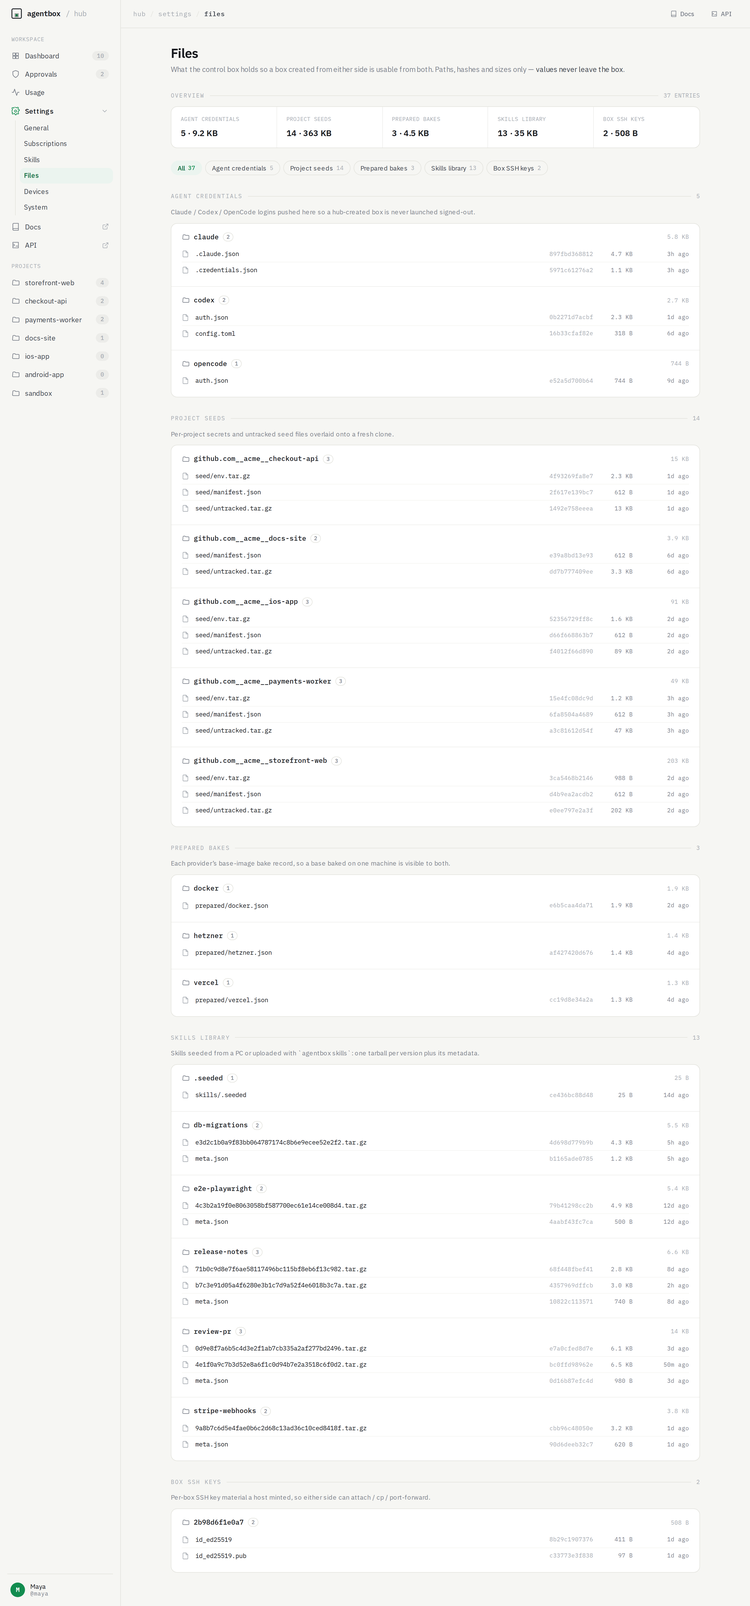
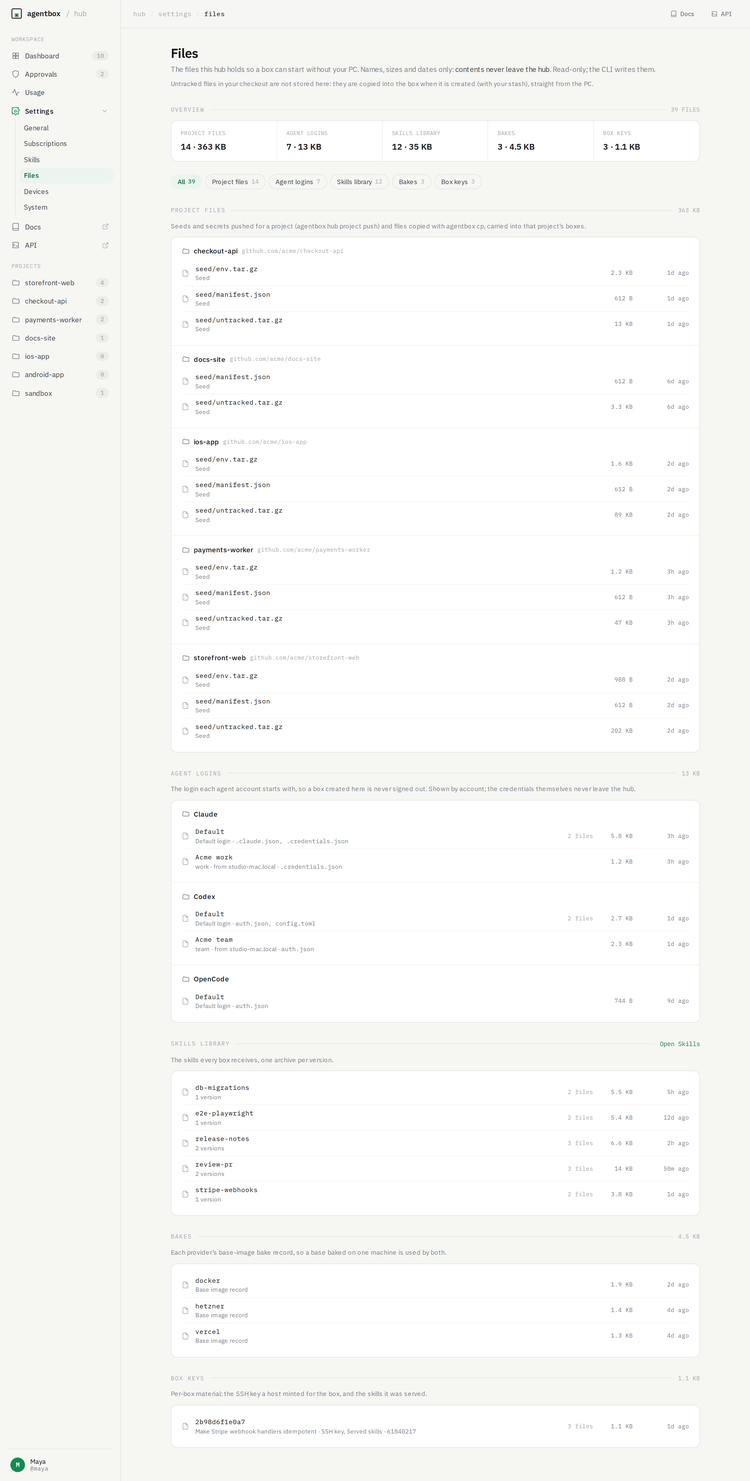
docs: hub settings Phase 4 done; Files docs, API and catalog shot

diff --git a/catalog/screens/index.html b/catalog/screens/index.html
@@ -126,7 +126,7 @@ dialog::backdrop { background: var(--shade); }
 <dialog id="dlg"></dialog>
 
 <script>
-const DATA = {"screens":[{"topic":"Web hub","setup":"fixture-hub","url":"/","id":"hub/boxes","title":"Hub dashboard: every box, grouped by project","what":"The boxes list with a pending approval banner on top: running, paused, creating, failed and stopped boxes on docker, vercel, hetzner and e2b.","social":{"title":"Every coding agent in its own box","crop":[0,0,2880,1800]},"files":[{"shoot":"pnpm shoot hub/boxes.png / --full","file":"hub/boxes.png","w":2880,"h":4122,"url":"../shots/hub/boxes.png","path":"catalog/shots/hub/boxes.png"}]},{"topic":"Web hub","setup":"fixture-hub","url":"/boxes/\u003cbox id>","id":"hub/box-detail","title":"Box detail","what":"One box: status, git, services, the skills it holds, access links and its approvals.","from":"hub/boxes","via":"Click a box row","social":{"crop":[0,0,2880,1800]},"files":[{"shoot":"pnpm shoot hub/box-detail.png /boxes/7f3a9c21b8d4 --full","file":"hub/box-detail.png","w":2880,"h":4252,"url":"../shots/hub/box-detail.png","path":"catalog/shots/hub/box-detail.png"}]},{"topic":"Web hub","setup":"fixture-hub","url":"/projects/\u003cproject id>","id":"hub/project","title":"Project page","what":"A project's boxes, its seed in custody and its service bot with backups.","from":"hub/boxes","via":"Click a project in the sidebar","social":{"crop":[0,0,2880,1800]},"files":[{"shoot":"pnpm shoot hub/project-detail.png /projects/fx-payments-worker --full","file":"hub/project-detail.png","w":2880,"h":1998,"url":"../shots/hub/project-detail.png","path":"catalog/shots/hub/project-detail.png"}]},{"topic":"Web hub","setup":"fixture-hub","url":"/projects/\u003cproject id>, then Create box","id":"hub/create-box","title":"Create a box","what":"The create modal over a project page: provider, agent, account and first prompt.","from":"hub/project","via":"Create box","notes":["The modal opens over the project page; the click is the first \"Create box\" button on the page."],"files":[{"shoot":"pnpm shoot hub/create-box.png /projects/fx-payments-worker --click text=Create\\ box","file":"hub/create-box.png","w":2880,"h":1800,"url":"../shots/hub/create-box.png","path":"catalog/shots/hub/create-box.png"}]},{"topic":"Web hub","setup":"fixture-hub","url":"/approvals","id":"hub/approvals","title":"Approvals","what":"Host actions boxes asked for, waiting on a yes: a shell command on the host and a git push.","from":"hub/boxes","via":"Approvals in the sidebar, or View all on the banner","files":[{"shoot":"pnpm shoot hub/approvals.png /approvals","file":"hub/approvals.png","w":2880,"h":1800,"url":"../shots/hub/approvals.png","path":"catalog/shots/hub/approvals.png"}]},{"topic":"Web hub","setup":"fixture-hub","url":"/usage","id":"hub/usage","title":"Usage: tokens by day, agent, account, box and model","what":"Seven days of token usage (demo numbers) by day, agent, account, box and model.","social":{"title":"Where the tokens went, per box and per account","crop":[0,0,2880,1800]},"files":[{"shoot":"pnpm shoot hub/usage.png /usage --full","file":"hub/usage.png","w":2880,"h":6642,"url":"../shots/hub/usage.png","path":"catalog/shots/hub/usage.png"}]},{"topic":"Web hub","setup":"fixture-hub","url":"/settings/files","id":"hub/files","title":"Files: what the hub holds for boxes","what":"Agent logins, project seeds, bake records, the skills library and a box SSH key, metadata only.","files":[{"shoot":"pnpm shoot hub/files.png /settings/files --full","file":"hub/files.png","w":2880,"h":6160,"url":"../shots/hub/files.png","path":"catalog/shots/hub/files.png"}]},{"topic":"Web hub","setup":"fixture-hub","url":"/settings/devices","id":"hub/devices","title":"Devices: the PCs enrolled on this hub","what":"Three enrolled machines, a revoked one, and an enrollment code waiting for approval.","files":[{"shoot":"pnpm shoot hub/devices.png /settings/devices --full","file":"hub/devices.png","w":2880,"h":1892,"url":"../shots/hub/devices.png","path":"catalog/shots/hub/devices.png"}]},{"topic":"Web hub","setup":"fixture-hub","url":"/settings","id":"hub/settings","title":"Settings: General (providers)","what":"Docker, Hetzner and Vercel ready; E2B, Daytona and DigitalOcean not set up.","files":[{"shoot":"pnpm shoot hub/settings.png /settings --full","file":"hub/settings.png","w":2880,"h":1918,"url":"../shots/hub/settings.png","path":"catalog/shots/hub/settings.png"}]},{"topic":"Web hub","setup":"fixture-hub","url":"/settings/system","id":"hub/system","title":"System: hub version, bakes and the box image","what":"The hub's own state: version, deploy record, which provider bases are baked, the docker image.","files":[{"shoot":"pnpm shoot hub/system.png /settings/system --full","file":"hub/system.png","w":2880,"h":3258,"url":"../shots/hub/system.png","path":"catalog/shots/hub/system.png"}]},{"topic":"Web hub: skills and accounts","setup":"fixture-hub","url":"/settings/skills","id":"hub/skills","title":"Skills library","what":"The hub-owned skills library: git, marketplace, linked-folder and uploaded skills, two updates waiting for approval.","social":{"title":"One skills library for every box"},"files":[{"shoot":"pnpm shoot hub/skills.png /settings/skills","file":"hub/skills.png","w":2880,"h":1800,"url":"../shots/hub/skills.png","path":"catalog/shots/hub/skills.png"}]},{"topic":"Web hub: skills and accounts","setup":"fixture-hub","url":"/settings/skills","id":"hub/skills-update","title":"Review a skill update","what":"The update dialog of a library skill: the file diff between the current and the pending version, and the secret scan.","from":"hub/skills","via":"Review update on a skill with an update waiting","notes":["Taken 1500px tall: at 900 the dialog squeezes each file panel."],"files":[{"shoot":"pnpm shoot hub/skills-update.png /settings/skills --size 1440x1500 --click text=Review\\ update","file":"hub/skills-update.png","w":2880,"h":3000,"url":"../shots/hub/skills-update.png","path":"catalog/shots/hub/skills-update.png"}]},{"topic":"Web hub: skills and accounts","setup":"fixture-hub","url":"/settings/subscriptions","id":"hub/subscriptions","title":"Subscriptions: LLM accounts","what":"Several logins, setup tokens and API keys per agent, with the boxes that use each one.","social":{"title":"Several Claude and Codex accounts, one per box"},"files":[{"shoot":"pnpm shoot hub/subscriptions.png /settings/subscriptions","file":"hub/subscriptions.png","w":2880,"h":1800,"url":"../shots/hub/subscriptions.png","path":"catalog/shots/hub/subscriptions.png"}]},{"topic":"macOS tray","setup":"fixture-tray","id":"tray/menu","title":"Tray menu","what":"Boxes grouped under their manager session and project, an approval with Approve/Deny, and the footer.","social":{"kind":"cutout","title":"Every box, one click from the menu bar"},"files":[{"shoot":"pnpm shoot:tray tray/menu.png --restart","file":"tray/menu.png","w":1322,"h":1884,"url":"../shots/tray/menu.png","path":"catalog/shots/tray/menu.png"}]},{"topic":"macOS tray","setup":"fixture-tray","id":"tray/skill-updates","title":"Tray: Skill updates submenu","what":"\"Skill updates (2)\": one row per waiting update (name → version), then Review in hub….","from":"tray/menu","via":"Skill updates (2)","social":{"kind":"cutout"},"files":[{"shoot":"pnpm shoot:tray tray/skill-updates.png --press agentbox.footer.skillUpdates","file":"tray/skill-updates.png","w":1286,"h":1884,"url":"../shots/tray/skill-updates.png","path":"catalog/shots/tray/skill-updates.png"}]},{"topic":"macOS tray","setup":"fixture-tray","id":"tray/skill-approve","title":"Tray: approve a skill update","what":"The confirmation before a version becomes current: running boxes sync it now, stopped ones on their next start.","from":"tray/skill-updates","via":"A row under Skill updates (skill → version)","notes":["--alert quits the fixture app after the shot: the alert is modal, and a relaunch resets the demo."],"social":{"kind":"cutout"},"files":[{"shoot":"pnpm shoot:tray tray/skill-approve-confirm.png --press agentbox.footer.skillUpdates --press agentbox.skillUpdates.review-pr --alert","file":"tray/skill-approve-confirm.png","w":520,"h":640,"url":"../shots/tray/skill-approve-confirm.png","path":"catalog/shots/tray/skill-approve-confirm.png"}]},{"topic":"macOS tray","setup":"fixture-tray","id":"tray/box-skills-behind","title":"Tray: a box that is behind on skills","what":"A box's submenu: a \"Skills behind: …\" line naming the skills it lacks, and Sync Skills.","from":"tray/menu","via":"Hover a box row","social":{"kind":"cutout"},"files":[{"shoot":"pnpm shoot:tray tray/box-skills-behind.png --press agentbox.box.queue-retries","file":"tray/box-skills-behind.png","w":1452,"h":1884,"url":"../shots/tray/box-skills-behind.png","path":"catalog/shots/tray/box-skills-behind.png"}]},{"topic":"macOS tray","setup":"fixture-tray","id":"tray/accounts","title":"Tray: Accounts submenu","what":"The read-only list of LLM accounts per agent, with kind, identity and how many boxes use each.","from":"tray/menu","via":"Accounts","social":{"kind":"cutout"},"files":[{"shoot":"pnpm shoot:tray tray/accounts.png --press agentbox.footer.accounts","file":"tray/accounts.png","w":1352,"h":1884,"url":"../shots/tray/accounts.png","path":"catalog/shots/tray/accounts.png"}]},{"topic":"macOS tray","setup":"fixture-tray","id":"tray/manager","title":"Manager window","what":"Tasks grouped by box with progress, the latest activity (a PR ready to merge with Approve), and the manager session pane.","from":"tray/menu","via":"Open Manager (⌘M)","social":{"kind":"cutout","title":"Plan the work, watch every box, approve the merge"},"files":[{"shoot":"pnpm shoot:tray tray/manager.png --manager fx-commerce","file":"tray/manager.png","w":2360,"h":1800,"url":"../shots/tray/manager.png","path":"catalog/shots/tray/manager.png"}]},{"topic":"CLI","setup":"fixture-cli","url":"agentbox install","id":"cli/install","title":"Setup wizard","what":"`agentbox install` (and the first command on a new machine): the system check, then the provider choice.","notes":["The \"system warn: optional sshfs, macfuse\" line is this Mac's real check result."],"social":{"kind":"cutout","title":"Set up in one command"},"files":[{"state":"pick a provider","shoot":"pnpm shoot:cli cli/install-provider.png --first-run --cols 122 --rows 22 --wait-for Which -- install","file":"cli/install-provider.png","w":2222,"h":934,"url":"../shots/cli/install-provider.png","path":"catalog/shots/cli/install-provider.png"},{"state":"Hetzner API token","shoot":"pnpm shoot:cli cli/install-hetzner.png --first-run --cols 110 --rows 34 --wait-for Which --send '\u003cDown>\u003cDown>' --send '\u003cEnter>' --settle 2500 -- install","file":"cli/install-hetzner.png","w":2028,"h":1246,"url":"../shots/cli/install-hetzner.png","path":"catalog/shots/cli/install-hetzner.png"}]},{"topic":"CLI","setup":"fixture-cli","url":"agentbox ls --global","id":"cli/ls","title":"agentbox ls","what":"Every box on the hub: state, agent activity (and its account), provider, URL and project.","social":{"kind":"cutout"},"files":[{"shoot":"pnpm shoot:cli cli/ls.png --cols 122 --rows 22 -- ls --global","file":"cli/ls.png","w":2222,"h":816,"url":"../shots/cli/ls.png","path":"catalog/shots/cli/ls.png"}]},{"topic":"CLI","setup":"fixture-cli","url":"agentbox --help","id":"cli/help","title":"agentbox --help","what":"The command list.","social":{"kind":"cutout"},"files":[{"shoot":"pnpm shoot:cli cli/help.png --cols 100 --rows 60 -- --help","file":"cli/help.png","w":1864,"h":2068,"url":"../shots/cli/help.png","path":"catalog/shots/cli/help.png"}]},{"id":"docs/dashboard","topic":"From the docs","title":"agentbox dashboard (docs capture)","what":"The terminal dashboard: the box list on the left, the selected box's live agent session on the right.","setup":"docs-site","files":[{"file":"docs:dashboard.png","w":2696,"h":1130,"url":"../../apps/web/public/screenshots/dashboard.png","path":"apps/web/public/screenshots/dashboard.png"}],"notes":["Needs live tmux sessions in real boxes, which the fixtures cannot provide, so it comes from the docs. Real boxes from the docs test environment (2026-06-02)."],"social":{"kind":"page"}},{"id":"docs/claude-tui","topic":"From the docs","title":"Claude Code in a box (docs capture)","what":"An attached Claude Code session running inside a docker box.","setup":"docs-site","files":[{"file":"docs:claude-tui.png","w":2336,"h":989,"url":"../../apps/web/public/screenshots/claude-tui.png","path":"apps/web/public/screenshots/claude-tui.png"}]},{"id":"docs/push-approval","topic":"From the docs","title":"Push approval in the terminal (docs capture)","what":"The approval band a box raises when its agent runs gh pr create.","setup":"docs-site","files":[{"file":"docs:push-approval.png","w":2416,"h":1120,"url":"../../apps/web/public/screenshots/push-approval.png","path":"apps/web/public/screenshots/push-approval.png"}]},{"id":"docs/novnc-desktop","topic":"From the docs","title":"A box's desktop over noVNC (docs capture)","what":"The in-box browser and desktop.","setup":"docs-site","files":[{"file":"docs:novnc-desktop.png","w":1140,"h":978,"url":"../../apps/web/public/screenshots/novnc-desktop.png","path":"apps/web/public/screenshots/novnc-desktop.png"}],"check":"apps/web/images.md marks this one stale: it predates the window manager and the dock."},{"id":"docs/herdr","topic":"From the docs","title":"Herdr: a box blocked on an approval (docs capture)","what":"Claude in a box inside Herdr, waiting on a gh pr create approval, with the agents sidebar.","setup":"docs-site","files":[{"file":"docs:herdr-permission-prompt.png","w":2784,"h":1616,"url":"../../apps/web/public/screenshots/herdr-permission-prompt.png","path":"apps/web/public/screenshots/herdr-permission-prompt.png"}]},{"id":"docs/cmux","topic":"From the docs","title":"cmux: box status in the sidebar (docs capture)","what":"Box state as colour and description in the cmux sidebar.","setup":"docs-site","files":[{"file":"docs:cmux-sidebar-state.png","w":1100,"h":640,"url":"../../apps/web/public/screenshots/cmux-sidebar-state.png","path":"apps/web/public/screenshots/cmux-sidebar-state.png"}]}],"setups":{"fixture-hub":{"title":"Fixture hub: the real hub UI on the Acme demo data","what":"apps/hub's own production build, served by scripts/fixture-hub.mjs on 127.0.0.1:3126 with a fixture backend (fixtures/acme.mjs) and every /api/v1 route answered from fixtures/api.mjs. No relay, no boxes, no sign-in; HOME is .cache/home.","commands":["pnpm --filter @agentbox/hub build   # only when apps/hub changed since the last build (from the repo root)","pnpm fixture-hub                    # http://127.0.0.1:3126, leave it running","pnpm shoot \u003cfile> \u003cpath>            # in another terminal"],"notes":["A route a page asks for that has no fixture prints \"unhandled GET ...\" in the fixture hub's log, and shoot warns \"answered 404\". Add it to fixtures/api.mjs.","The hub reads the clock in the browser: shoot pins it to NOW in fixtures/acme.mjs, so \"3m ago\" is the same on every run."]},"fixture-tray":{"title":"Tray app in fixture mode (AgentBoxE2E.app --fixtures)","what":"A second tray instance from ../agentbox-tray (own bundle id and process name, so the owner's real tray is never touched), launched with --fixtures: the tray's in-memory FixtureBoxSource, the same Acme story as the hub fixtures, no hub, no shell-outs. Driven through Accessibility by e2e/tray-driver.","commands":["cd ../../agentbox-tray && make e2e-app            # builds AgentBoxE2E.app (after a tray change)","cd ../e2e/tray-driver && swift build -c release   # the AX driver, once","pnpm shoot:tray \u003cfile> [--press \u003cax id>]...       # launches the app itself when it is not running"],"notes":["Opening a menu takes the screen for a moment: shoot:tray waits until the Mac has had 3s without input. Don't use the Mac while it runs.","Captures are `screencapture -l \u003cwindow id>` of the app's own windows, never a screen region, so nothing else on the screen gets in.","The terminal that runs it needs Screen Recording and Accessibility permission (System Settings → Privacy & Security).","The tray's demo data lives in the tray repo (Sources/AgentBox/Source/FixtureBoxSource.swift), not here. Keep fixtures/acme.mjs in step with it."]},"fixture-cli":{"title":"CLI in a PTY, HOME pointed at the fixture hub","what":"apps/cli/dist/index.js run in the repo's PTY harness (`pnpm drive`) with HOME=.cache/cli-home, whose config sets relay.port to 3126: every hub-backed command reads the fixture hub. The rendered screen, colours included, is drawn into a terminal window by scripts/shoot-cli.mjs.","commands":["pnpm --filter agentbox build   # from the repo root, when the CLI changed","pnpm fixture-hub               # leave it running","pnpm shoot:cli \u003cfile> [options] -- \u003cagentbox args>"],"notes":["The prompt line (\"~/Projects/commerce ❯ agentbox ...\") is drawn, not typed.","Checks that read the real machine (the system compatibility step of the wizard) show this Mac's result."]},"docs-site":{"title":"Taken for the public docs (apps/web)","what":"Real screenshots of real boxes, taken for agent-box.sh/docs and kept in apps/web/public/screenshots. How each was taken, and which are stale, is in apps/web/images.md.","commands":["# see apps/web/images.md, section 1 (the test environment) and its status table"]}},"topics":["Web hub","Web hub: skills and accounts","macOS tray","CLI","From the docs"]};
+const DATA = {"screens":[{"topic":"Web hub","setup":"fixture-hub","url":"/","id":"hub/boxes","title":"Hub dashboard: every box, grouped by project","what":"The boxes list with a pending approval banner on top: running, paused, creating, failed and stopped boxes on docker, vercel, hetzner and e2b.","social":{"title":"Every coding agent in its own box","crop":[0,0,2880,1800]},"files":[{"shoot":"pnpm shoot hub/boxes.png / --full","file":"hub/boxes.png","w":2880,"h":4122,"url":"../shots/hub/boxes.png","path":"catalog/shots/hub/boxes.png"}]},{"topic":"Web hub","setup":"fixture-hub","url":"/boxes/\u003cbox id>","id":"hub/box-detail","title":"Box detail","what":"One box: status, git, services, the skills it holds, access links and its approvals.","from":"hub/boxes","via":"Click a box row","social":{"crop":[0,0,2880,1800]},"files":[{"shoot":"pnpm shoot hub/box-detail.png /boxes/7f3a9c21b8d4 --full","file":"hub/box-detail.png","w":2880,"h":4252,"url":"../shots/hub/box-detail.png","path":"catalog/shots/hub/box-detail.png"}]},{"topic":"Web hub","setup":"fixture-hub","url":"/projects/\u003cproject id>","id":"hub/project","title":"Project page","what":"A project's boxes, its seed in custody and its service bot with backups.","from":"hub/boxes","via":"Click a project in the sidebar","social":{"crop":[0,0,2880,1800]},"files":[{"shoot":"pnpm shoot hub/project-detail.png /projects/fx-payments-worker --full","file":"hub/project-detail.png","w":2880,"h":1998,"url":"../shots/hub/project-detail.png","path":"catalog/shots/hub/project-detail.png"}]},{"topic":"Web hub","setup":"fixture-hub","url":"/projects/\u003cproject id>, then Create box","id":"hub/create-box","title":"Create a box","what":"The create modal over a project page: provider, agent, account and first prompt.","from":"hub/project","via":"Create box","notes":["The modal opens over the project page; the click is the first \"Create box\" button on the page."],"files":[{"shoot":"pnpm shoot hub/create-box.png /projects/fx-payments-worker --click text=Create\\ box","file":"hub/create-box.png","w":2880,"h":1800,"url":"../shots/hub/create-box.png","path":"catalog/shots/hub/create-box.png"}]},{"topic":"Web hub","setup":"fixture-hub","url":"/approvals","id":"hub/approvals","title":"Approvals","what":"Host actions boxes asked for, waiting on a yes: a shell command on the host and a git push.","from":"hub/boxes","via":"Approvals in the sidebar, or View all on the banner","files":[{"shoot":"pnpm shoot hub/approvals.png /approvals","file":"hub/approvals.png","w":2880,"h":1800,"url":"../shots/hub/approvals.png","path":"catalog/shots/hub/approvals.png"}]},{"topic":"Web hub","setup":"fixture-hub","url":"/usage","id":"hub/usage","title":"Usage: tokens by day, agent, account, box and model","what":"Seven days of token usage (demo numbers) by day, agent, account, box and model.","social":{"title":"Where the tokens went, per box and per account","crop":[0,0,2880,1800]},"files":[{"shoot":"pnpm shoot hub/usage.png /usage --full","file":"hub/usage.png","w":2880,"h":6642,"url":"../shots/hub/usage.png","path":"catalog/shots/hub/usage.png"}]},{"topic":"Web hub","setup":"fixture-hub","url":"/settings/files","id":"hub/files","title":"Files: what the hub holds for boxes","what":"Project files per project, agent logins per account, the skills library, bakes and box keys, with size and last update; metadata only.","files":[{"shoot":"pnpm shoot hub/files.png /settings/files --full","file":"hub/files.png","w":2880,"h":5680,"url":"../shots/hub/files.png","path":"catalog/shots/hub/files.png"}]},{"topic":"Web hub","setup":"fixture-hub","url":"/settings/devices","id":"hub/devices","title":"Devices: the PCs enrolled on this hub","what":"Three enrolled machines, a revoked one, and an enrollment code waiting for approval.","files":[{"shoot":"pnpm shoot hub/devices.png /settings/devices --full","file":"hub/devices.png","w":2880,"h":1892,"url":"../shots/hub/devices.png","path":"catalog/shots/hub/devices.png"}]},{"topic":"Web hub","setup":"fixture-hub","url":"/settings","id":"hub/settings","title":"Settings: General (providers)","what":"Docker, Hetzner and Vercel ready; E2B, Daytona and DigitalOcean not set up.","files":[{"shoot":"pnpm shoot hub/settings.png /settings --full","file":"hub/settings.png","w":2880,"h":1918,"url":"../shots/hub/settings.png","path":"catalog/shots/hub/settings.png"}]},{"topic":"Web hub","setup":"fixture-hub","url":"/settings/system","id":"hub/system","title":"System: hub version, bakes and the box image","what":"The hub's own state: version, deploy record, which provider bases are baked, the docker image.","files":[{"shoot":"pnpm shoot hub/system.png /settings/system --full","file":"hub/system.png","w":2880,"h":3258,"url":"../shots/hub/system.png","path":"catalog/shots/hub/system.png"}]},{"topic":"Web hub: skills and accounts","setup":"fixture-hub","url":"/settings/skills","id":"hub/skills","title":"Skills library","what":"The hub-owned skills library: git, marketplace, linked-folder and uploaded skills, two updates waiting for approval.","social":{"title":"One skills library for every box"},"files":[{"shoot":"pnpm shoot hub/skills.png /settings/skills","file":"hub/skills.png","w":2880,"h":1800,"url":"../shots/hub/skills.png","path":"catalog/shots/hub/skills.png"}]},{"topic":"Web hub: skills and accounts","setup":"fixture-hub","url":"/settings/skills","id":"hub/skills-update","title":"Review a skill update","what":"The update dialog of a library skill: the file diff between the current and the pending version, and the secret scan.","from":"hub/skills","via":"Review update on a skill with an update waiting","notes":["Taken 1500px tall: at 900 the dialog squeezes each file panel."],"files":[{"shoot":"pnpm shoot hub/skills-update.png /settings/skills --size 1440x1500 --click text=Review\\ update","file":"hub/skills-update.png","w":2880,"h":3000,"url":"../shots/hub/skills-update.png","path":"catalog/shots/hub/skills-update.png"}]},{"topic":"Web hub: skills and accounts","setup":"fixture-hub","url":"/settings/subscriptions","id":"hub/subscriptions","title":"Subscriptions: LLM accounts","what":"Several logins, setup tokens and API keys per agent, with the boxes that use each one.","social":{"title":"Several Claude and Codex accounts, one per box"},"files":[{"shoot":"pnpm shoot hub/subscriptions.png /settings/subscriptions","file":"hub/subscriptions.png","w":2880,"h":1800,"url":"../shots/hub/subscriptions.png","path":"catalog/shots/hub/subscriptions.png"}]},{"topic":"macOS tray","setup":"fixture-tray","id":"tray/menu","title":"Tray menu","what":"Boxes grouped under their manager session and project, an approval with Approve/Deny, and the footer.","social":{"kind":"cutout","title":"Every box, one click from the menu bar"},"files":[{"shoot":"pnpm shoot:tray tray/menu.png --restart","file":"tray/menu.png","w":1322,"h":1884,"url":"../shots/tray/menu.png","path":"catalog/shots/tray/menu.png"}]},{"topic":"macOS tray","setup":"fixture-tray","id":"tray/skill-updates","title":"Tray: Skill updates submenu","what":"\"Skill updates (2)\": one row per waiting update (name → version), then Review in hub….","from":"tray/menu","via":"Skill updates (2)","social":{"kind":"cutout"},"files":[{"shoot":"pnpm shoot:tray tray/skill-updates.png --press agentbox.footer.skillUpdates","file":"tray/skill-updates.png","w":1286,"h":1884,"url":"../shots/tray/skill-updates.png","path":"catalog/shots/tray/skill-updates.png"}]},{"topic":"macOS tray","setup":"fixture-tray","id":"tray/skill-approve","title":"Tray: approve a skill update","what":"The confirmation before a version becomes current: running boxes sync it now, stopped ones on their next start.","from":"tray/skill-updates","via":"A row under Skill updates (skill → version)","notes":["--alert quits the fixture app after the shot: the alert is modal, and a relaunch resets the demo."],"social":{"kind":"cutout"},"files":[{"shoot":"pnpm shoot:tray tray/skill-approve-confirm.png --press agentbox.footer.skillUpdates --press agentbox.skillUpdates.review-pr --alert","file":"tray/skill-approve-confirm.png","w":520,"h":640,"url":"../shots/tray/skill-approve-confirm.png","path":"catalog/shots/tray/skill-approve-confirm.png"}]},{"topic":"macOS tray","setup":"fixture-tray","id":"tray/box-skills-behind","title":"Tray: a box that is behind on skills","what":"A box's submenu: a \"Skills behind: …\" line naming the skills it lacks, and Sync Skills.","from":"tray/menu","via":"Hover a box row","social":{"kind":"cutout"},"files":[{"shoot":"pnpm shoot:tray tray/box-skills-behind.png --press agentbox.box.queue-retries","file":"tray/box-skills-behind.png","w":1452,"h":1884,"url":"../shots/tray/box-skills-behind.png","path":"catalog/shots/tray/box-skills-behind.png"}]},{"topic":"macOS tray","setup":"fixture-tray","id":"tray/accounts","title":"Tray: Accounts submenu","what":"The read-only list of LLM accounts per agent, with kind, identity and how many boxes use each.","from":"tray/menu","via":"Accounts","social":{"kind":"cutout"},"files":[{"shoot":"pnpm shoot:tray tray/accounts.png --press agentbox.footer.accounts","file":"tray/accounts.png","w":1352,"h":1884,"url":"../shots/tray/accounts.png","path":"catalog/shots/tray/accounts.png"}]},{"topic":"macOS tray","setup":"fixture-tray","id":"tray/manager","title":"Manager window","what":"Tasks grouped by box with progress, the latest activity (a PR ready to merge with Approve), and the manager session pane.","from":"tray/menu","via":"Open Manager (⌘M)","social":{"kind":"cutout","title":"Plan the work, watch every box, approve the merge"},"files":[{"shoot":"pnpm shoot:tray tray/manager.png --manager fx-commerce","file":"tray/manager.png","w":2360,"h":1800,"url":"../shots/tray/manager.png","path":"catalog/shots/tray/manager.png"}]},{"topic":"CLI","setup":"fixture-cli","url":"agentbox install","id":"cli/install","title":"Setup wizard","what":"`agentbox install` (and the first command on a new machine): the system check, then the provider choice.","notes":["The \"system warn: optional sshfs, macfuse\" line is this Mac's real check result."],"social":{"kind":"cutout","title":"Set up in one command"},"files":[{"state":"pick a provider","shoot":"pnpm shoot:cli cli/install-provider.png --first-run --cols 122 --rows 22 --wait-for Which -- install","file":"cli/install-provider.png","w":2222,"h":934,"url":"../shots/cli/install-provider.png","path":"catalog/shots/cli/install-provider.png"},{"state":"Hetzner API token","shoot":"pnpm shoot:cli cli/install-hetzner.png --first-run --cols 110 --rows 34 --wait-for Which --send '\u003cDown>\u003cDown>' --send '\u003cEnter>' --settle 2500 -- install","file":"cli/install-hetzner.png","w":2028,"h":1246,"url":"../shots/cli/install-hetzner.png","path":"catalog/shots/cli/install-hetzner.png"}]},{"topic":"CLI","setup":"fixture-cli","url":"agentbox ls --global","id":"cli/ls","title":"agentbox ls","what":"Every box on the hub: state, agent activity (and its account), provider, URL and project.","social":{"kind":"cutout"},"files":[{"shoot":"pnpm shoot:cli cli/ls.png --cols 122 --rows 22 -- ls --global","file":"cli/ls.png","w":2222,"h":816,"url":"../shots/cli/ls.png","path":"catalog/shots/cli/ls.png"}]},{"topic":"CLI","setup":"fixture-cli","url":"agentbox --help","id":"cli/help","title":"agentbox --help","what":"The command list.","social":{"kind":"cutout"},"files":[{"shoot":"pnpm shoot:cli cli/help.png --cols 100 --rows 60 -- --help","file":"cli/help.png","w":1864,"h":2068,"url":"../shots/cli/help.png","path":"catalog/shots/cli/help.png"}]},{"id":"docs/dashboard","topic":"From the docs","title":"agentbox dashboard (docs capture)","what":"The terminal dashboard: the box list on the left, the selected box's live agent session on the right.","setup":"docs-site","files":[{"file":"docs:dashboard.png","w":2696,"h":1130,"url":"../../apps/web/public/screenshots/dashboard.png","path":"apps/web/public/screenshots/dashboard.png"}],"notes":["Needs live tmux sessions in real boxes, which the fixtures cannot provide, so it comes from the docs. Real boxes from the docs test environment (2026-06-02)."],"social":{"kind":"page"}},{"id":"docs/claude-tui","topic":"From the docs","title":"Claude Code in a box (docs capture)","what":"An attached Claude Code session running inside a docker box.","setup":"docs-site","files":[{"file":"docs:claude-tui.png","w":2336,"h":989,"url":"../../apps/web/public/screenshots/claude-tui.png","path":"apps/web/public/screenshots/claude-tui.png"}]},{"id":"docs/push-approval","topic":"From the docs","title":"Push approval in the terminal (docs capture)","what":"The approval band a box raises when its agent runs gh pr create.","setup":"docs-site","files":[{"file":"docs:push-approval.png","w":2416,"h":1120,"url":"../../apps/web/public/screenshots/push-approval.png","path":"apps/web/public/screenshots/push-approval.png"}]},{"id":"docs/novnc-desktop","topic":"From the docs","title":"A box's desktop over noVNC (docs capture)","what":"The in-box browser and desktop.","setup":"docs-site","files":[{"file":"docs:novnc-desktop.png","w":1140,"h":978,"url":"../../apps/web/public/screenshots/novnc-desktop.png","path":"apps/web/public/screenshots/novnc-desktop.png"}],"check":"apps/web/images.md marks this one stale: it predates the window manager and the dock."},{"id":"docs/herdr","topic":"From the docs","title":"Herdr: a box blocked on an approval (docs capture)","what":"Claude in a box inside Herdr, waiting on a gh pr create approval, with the agents sidebar.","setup":"docs-site","files":[{"file":"docs:herdr-permission-prompt.png","w":2784,"h":1616,"url":"../../apps/web/public/screenshots/herdr-permission-prompt.png","path":"apps/web/public/screenshots/herdr-permission-prompt.png"}]},{"id":"docs/cmux","topic":"From the docs","title":"cmux: box status in the sidebar (docs capture)","what":"Box state as colour and description in the cmux sidebar.","setup":"docs-site","files":[{"file":"docs:cmux-sidebar-state.png","w":1100,"h":640,"url":"../../apps/web/public/screenshots/cmux-sidebar-state.png","path":"apps/web/public/screenshots/cmux-sidebar-state.png"}]}],"setups":{"fixture-hub":{"title":"Fixture hub: the real hub UI on the Acme demo data","what":"apps/hub's own production build, served by scripts/fixture-hub.mjs on 127.0.0.1:3126 with a fixture backend (fixtures/acme.mjs) and every /api/v1 route answered from fixtures/api.mjs. No relay, no boxes, no sign-in; HOME is .cache/home.","commands":["pnpm --filter @agentbox/hub build   # only when apps/hub changed since the last build (from the repo root)","pnpm fixture-hub                    # http://127.0.0.1:3126, leave it running","pnpm shoot \u003cfile> \u003cpath>            # in another terminal"],"notes":["A route a page asks for that has no fixture prints \"unhandled GET ...\" in the fixture hub's log, and shoot warns \"answered 404\". Add it to fixtures/api.mjs.","The hub reads the clock in the browser: shoot pins it to NOW in fixtures/acme.mjs, so \"3m ago\" is the same on every run."]},"fixture-tray":{"title":"Tray app in fixture mode (AgentBoxE2E.app --fixtures)","what":"A second tray instance from ../agentbox-tray (own bundle id and process name, so the owner's real tray is never touched), launched with --fixtures: the tray's in-memory FixtureBoxSource, the same Acme story as the hub fixtures, no hub, no shell-outs. Driven through Accessibility by e2e/tray-driver.","commands":["cd ../../agentbox-tray && make e2e-app            # builds AgentBoxE2E.app (after a tray change)","cd ../e2e/tray-driver && swift build -c release   # the AX driver, once","pnpm shoot:tray \u003cfile> [--press \u003cax id>]...       # launches the app itself when it is not running"],"notes":["Opening a menu takes the screen for a moment: shoot:tray waits until the Mac has had 3s without input. Don't use the Mac while it runs.","Captures are `screencapture -l \u003cwindow id>` of the app's own windows, never a screen region, so nothing else on the screen gets in.","The terminal that runs it needs Screen Recording and Accessibility permission (System Settings → Privacy & Security).","The tray's demo data lives in the tray repo (Sources/AgentBox/Source/FixtureBoxSource.swift), not here. Keep fixtures/acme.mjs in step with it."]},"fixture-cli":{"title":"CLI in a PTY, HOME pointed at the fixture hub","what":"apps/cli/dist/index.js run in the repo's PTY harness (`pnpm drive`) with HOME=.cache/cli-home, whose config sets relay.port to 3126: every hub-backed command reads the fixture hub. The rendered screen, colours included, is drawn into a terminal window by scripts/shoot-cli.mjs.","commands":["pnpm --filter agentbox build   # from the repo root, when the CLI changed","pnpm fixture-hub               # leave it running","pnpm shoot:cli \u003cfile> [options] -- \u003cagentbox args>"],"notes":["The prompt line (\"~/Projects/commerce ❯ agentbox ...\") is drawn, not typed.","Checks that read the real machine (the system compatibility step of the wizard) show this Mac's result."]},"docs-site":{"title":"Taken for the public docs (apps/web)","what":"Real screenshots of real boxes, taken for agent-box.sh/docs and kept in apps/web/public/screenshots. How each was taken, and which are stale, is in apps/web/images.md.","commands":["# see apps/web/images.md, section 1 (the test environment) and its status table"]}},"topics":["Web hub","Web hub: skills and accounts","macOS tray","CLI","From the docs"]};
 const { screens, setups, topics } = DATA;
 const byId = Object.fromEntries(screens.map((s) => [s.id, s]));
 /* frame() and FORMATS, from scripts/frame.mjs: the export's own layout. */

diff --git a/docs/hub-settings-plan.md b/docs/hub-settings-plan.md
@@ -1,6 +1,7 @@
 # Hub settings: one Settings section, subscriptions with limits and switching, skills, files — plan
 
-**Status:** Phase 1 done (2026-11-25, `feat/hub-settings-nav`). Phases 2-4 not started.
+**Status:** Phase 1 done (2026-11-25, `feat/hub-settings-nav`). Phase 4 done (2026-11-25,
+`feat/hub-settings-files`). Phases 2-3 not started.
 
 The hub web UI grew one top-level page per feature: Approvals, Custody, Skills, Accounts, Usage,
 Devices, Settings, System. The design in `../agentbox-design` (`AgentBox Control Plane (shadcn).html`,
@@ -216,7 +217,7 @@ mid-turn shows its windows matching `/status`; an Ultra claude account shows wee
 account; with `onLimit: switch`, a box whose account hits the limit moves to the next one on its own;
 with `ask`, the approval appears in the web and the tray.
 
-### Phase 4 — Files
+### Phase 4 — Files — done
 
 `/settings/files` replaces the Custody page and says what it is: the files the hub holds so boxes can
 start without the PC. Read-only.
@@ -231,6 +232,20 @@ start without the PC. Read-only.
 
 **Done:** on a local hub and on `hub expose` with a password profile, every custody entry shows under
 a human group and nothing exposes file contents.
+
+**Built:** `lib/files-view.ts` regroups the manifest; the page joins it client-side with the store's
+projects and boxes, `GET /accounts` and `GET /devices`, so no new route. Notes:
+
+- A project section is named after the hub project whose registered slug, or origin (host + path,
+  lowercased), matches; a folder name is used only for a project with no known origin. One repo
+  checked out as several hub projects lists all of them.
+- Named-account logins live per machine (`agents/<agent>/accounts/<machine>/<id>/`), and an account
+  label belongs to one machine's store. `GET /accounts` gained `machine` (this hub's machine id) so a
+  label is shown only on that machine's entries; another PC's account shows its id and the PC's name.
+- A box's SSH key (under its sandbox id) and its served-skills record (under its box id) merge into
+  one row. `cp/` and `cp-out/` roll up to one row each. Group counts exclude bookkeeping files
+  (`skills/.seeded`, `skills/.bindings.json`).
+- The unused scope grouping (`groupCustody`, `SCOPE_META`, `shortSha`) left `lib/custody-view.ts`.
 
 ## Parallel work
 
@@ -253,3 +268,11 @@ Hetzner. Phase 3 is the long one: it may split into a second box for 3c once 3a 
 - The design's box-page Environment section beyond what Phase 3c adds (files-in-this-box view).
 - The tray's skills and subscriptions redesign (next, against the API above).
 - Shared folders; upload into custody from the web.
+
+## Backlog
+
+- **Files:** a box row is titled with the box id; the Box payload has no separate name field, so a
+  cloud box shows its id, not the name it was created with.
+- **Files:** a project with no origin in its payload (a localhost hub's projects carry none) is
+  matched only by folder name; adding `originUrl` to the localhost project payload would make that
+  join exact.
